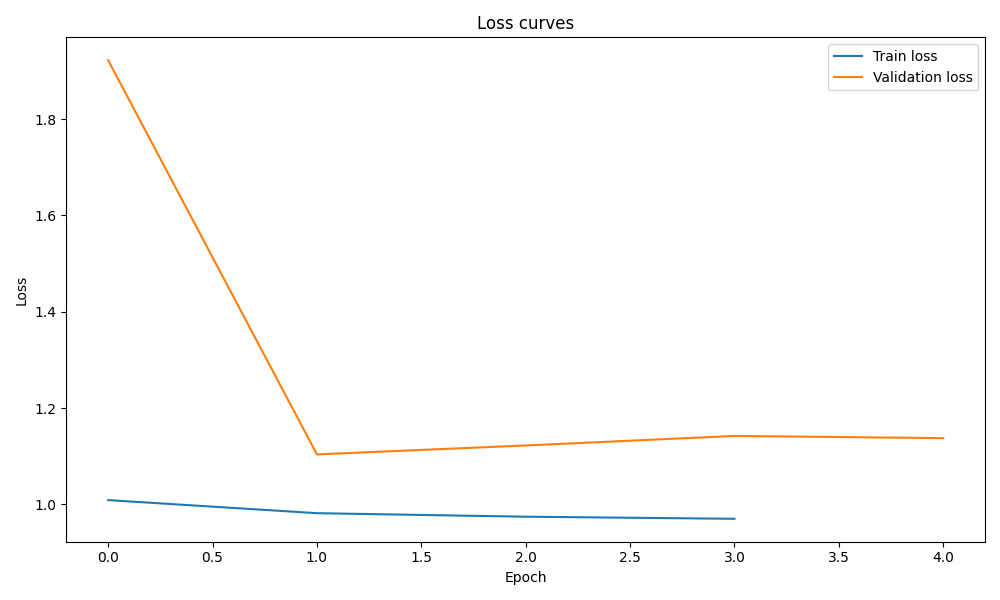
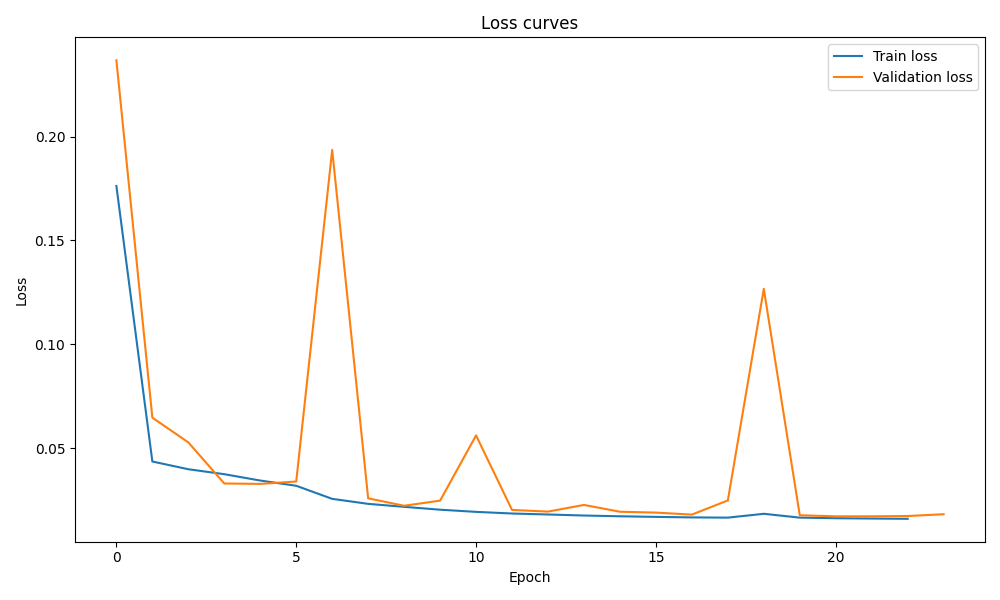
Added FineGrained

diff --git a/src/models/FineGrained/fine_grained.py b/src/models/FineGrained/fine_grained.py
@@ -1,0 +1,154 @@
+import torch
+import torch.nn as nn
+from torchvision.models import resnet50
+import lightning as L
+from torch import optim
+
+
+class ModifiedResNet50(nn.Module):
+    def __init__(self, num_classes):
+        super().__init__()
+        self.backbone = resnet50(weights="DEFAULT")
+        self.features = nn.Sequential(*list(self.backbone.children())[:-2])
+        self.conv1x1 = nn.Conv2d(2048, num_classes, kernel_size=1)
+
+    def forward(self, x):
+        x = self.features(x)
+        x = self.conv1x1(x)
+        return x
+
+
+class DiversificationBlock(nn.Module):
+    def __init__(self, p_peak=0.5, p_patch=0.5, grid_size=7, alpha=0.1):
+        super().__init__()
+        self.p_peak = p_peak
+        self.p_patch = p_patch
+        self.grid_size = grid_size
+        self.alpha = alpha
+
+    def forward(self, activation_maps):
+        batch_size, num_classes, H, W = activation_maps.shape
+        device = activation_maps.device
+
+        masks = torch.zeros_like(activation_maps).to(device)
+
+        for b in range(batch_size):
+            for c in range(num_classes):
+                map_ = activation_maps[b, c]
+
+                max_val = torch.max(map_)
+                peak_mask = (map_ == max_val).float()
+                r_peak = torch.bernoulli(torch.tensor(self.p_peak, device=device)).item()
+                B_prime = r_peak * peak_mask
+
+                patches = map_.unfold(0, self.grid_size, self.grid_size).unfold(1, self.grid_size, self.grid_size)
+                patch_mask = torch.zeros_like(map_)
+
+                for i in range(patches.shape[0]):
+                    for j in range(patches.shape[1]):
+                        r_patch = torch.bernoulli(torch.tensor(self.p_patch, device=device)).item()
+                        if r_patch:
+                            x_start = i * self.grid_size
+                            y_start = j * self.grid_size
+                            patch = map_[x_start:x_start+self.grid_size, y_start:y_start+self.grid_size]
+                            if not (patch == max_val).any():
+                                patch_mask[x_start:x_start+self.grid_size, y_start:y_start+self.grid_size] = 1
+
+                B = B_prime + patch_mask
+                masks[b, c] = B
+
+        suppressed_maps = activation_maps * (1 - masks) + activation_maps * masks * self.alpha
+        return suppressed_maps
+
+
+class GradientBoostingLoss(nn.Module):
+    def __init__(self, k=4):
+        super().__init__()
+        self.k = k
+
+    def forward(self, logits, labels):
+        batch_size, num_classes = logits.shape
+        loss = 0.0
+
+        for b in range(batch_size):
+            logit = logits[b]
+            label = labels[b]
+
+            device = logit.device
+            neg_logit = logit[torch.arange(num_classes, device=device) != label]
+            neg_labels = torch.arange(num_classes, device=device)[torch.arange(num_classes, device=device) != label]
+
+            topk_values, topk_indices = torch.topk(neg_logit, self.k)
+            J_prime = neg_labels[topk_indices]
+
+            numerator = torch.exp(logit[label])
+            denominator = numerator + torch.sum(torch.exp(logit[J_prime]))
+            loss_b = -torch.log(numerator / denominator)
+            loss += loss_b
+
+        return loss / batch_size
+
+
+class FineGrainedModel(L.LightningModule):
+    def __init__(self, num_classes, learning_rate=0.001, weight_decay=0.0, class_weights=None):
+        super().__init__()
+        self.feature_extractor = ModifiedResNet50(num_classes)
+        self.diversification = DiversificationBlock()
+        self.pool = nn.AdaptiveAvgPool2d(1)
+        self.learning_rate = learning_rate
+        self.weight_decay = weight_decay
+        
+        if class_weights is not None:
+            self.criterion = nn.CrossEntropyLoss(weight=torch.tensor(class_weights))
+        else:
+            self.criterion = GradientBoostingLoss()
+
+        self.reconstruction_error = []
+        self.targets = []
+
+    def forward(self, x):
+        activation_maps = self.feature_extractor(x)
+        if self.training:
+            activation_maps = self.diversification(activation_maps)
+        pooled = self.pool(activation_maps).squeeze()
+        return pooled
+
+    def training_step(self, batch, batch_idx):
+        x, y = batch
+        logits = self(x)
+        loss = self.criterion(logits, y)
+        self.log("train_loss", loss, on_step=True, on_epoch=True, sync_dist=True)
+        return loss
+
+    def validation_step(self, batch, batch_idx):
+        x, y = batch
+        logits = self(x)
+        loss = self.criterion(logits, y)
+        self.log("val_loss", loss, on_step=True, on_epoch=True, sync_dist=True)
+        return loss
+
+    def test_step(self, batch, batch_idx):
+        x, y = batch
+        logits = self(x)
+        loss = self.criterion(logits, y)
+        
+        # Zapisujemy błędy rekonstrukcji i etykiety dla późniejszej analizy
+        self.reconstruction_error.append(loss)
+        self.targets.append(y)
+
+    def on_test_epoch_end(self):
+        all_losses = torch.cat(self.reconstruction_error).cpu()
+        all_targets = torch.cat(self.targets).cpu()
+        
+        self.reconstruction_error = all_losses
+        self.targets = all_targets
+
+        self.log("test_loss", all_losses.mean(), on_epoch=True, sync_dist=True)
+
+    def configure_optimizers(self):
+        optimizer = optim.AdamW(
+            self.parameters(),
+            lr=self.learning_rate,
+            weight_decay=self.weight_decay
+        )
+        return {'optimizer': optimizer}

diff --git a/src/models/model_factory.py b/src/models/model_factory.py
@@ -4,16 +4,24 @@ from .ConvAE.ConvAE import ConvAE
 from .ResNet.ResNet import ResNet
 from .ResNetLSTM.ResNetLSTM import ResNetLSTM
 from .LargerConvAE.LargerConvAE import LargerConvAE
+from .FineGrained.fine_grained import FineGrainedModel
 
-def get_model(model_name: str, learning_rate: float, class_weights: list[float]) -> tuple[nn.Module, bool, bool]:
+def get_model(model_name: str, learning_rate: float, class_weights: list[float], weight_decay: float) -> tuple[nn.Module, bool, bool]:
     if model_name == 'ConvAE':
         return ConvAE(learning_rate=learning_rate), True, False
     elif model_name == 'ResNet':
-        return ResNet(learning_rate=learning_rate, class_weights=class_weights), False, False
+        return ResNet(learning_rate=learning_rate, class_weights=class_weights, weight_decay=weight_decay), False, False
     elif model_name == 'ResNetLSTM':
         return ResNetLSTM(learning_rate=learning_rate), False, True
     elif model_name == 'LargerConvAE':
         return LargerConvAE(learning_rate=learning_rate), True, False
+    elif model_name == 'FineGrained':
+        return FineGrainedModel(
+            num_classes=len(class_weights),  # Zakładam, że mamy klasy binarne (normal/anomaly)
+            learning_rate=learning_rate,
+            class_weights=class_weights,
+            weight_decay=weight_decay
+        ), False, False
     else:
         raise ValueError(f"Model {model_name} not found")
 

diff --git a/src/models/ResNet/ResNet.py b/src/models/ResNet/ResNet.py
@@ -6,7 +6,7 @@ import torchvision.models as models
 
 
 class ResNet(pl.LightningModule):
-    def __init__(self, input_shape=1, num_classes=6, learning_rate=0.0005, transform=None, freeze=True, class_weights=[1] * 6):
+    def __init__(self, input_shape=1, num_classes=6, learning_rate=0.0005, transform=None, freeze=True, class_weights=[1] * 6, weight_decay=0):
         super(ResNet, self).__init__()
         self.save_hyperparameters()
 
@@ -36,7 +36,7 @@ class ResNet(pl.LightningModule):
         )
 
         # Define a loss function and metric
-        self.criterion = nn.CrossEntropyLoss(weight=torch.tensor(class_weights))
+        self.criterion = nn.CrossEntropyLoss(weight=torch.tensor(class_weights, dtype=torch.float))
         if num_classes == 2:
             self.accuracy = Accuracy(task="binary")
         else:
@@ -109,5 +109,5 @@ class ResNet(pl.LightningModule):
         self.log("test_loss", all_losses.mean(), on_epoch=True, sync_dist=True)
 
     def configure_optimizers(self):
-        optimizer = torch.optim.Adam(self.model.fc.parameters(), lr=self.hparams.learning_rate)
+        optimizer = torch.optim.Adam(self.model.fc.parameters(), lr=self.hparams.learning_rate, weight_decay=self.hparams.weight_decay)
         return {'optimizer': optimizer}

diff --git a/src/main.py b/src/main.py
@@ -28,6 +28,7 @@ def main():
     stride = config['data']['stride']
     model_name = config['model']['name']
     class_weights = config['model']['class_weights']
+    weight_decay = config['model']['weight_decay']
     epochs = config['trainer']['epochs']
     device = config['trainer']['device']
     learning_rate = config['trainer']['learning_rate']
@@ -46,7 +47,7 @@ def main():
         resolved_device = device
 
     # Get model and related flags
-    model, is_unsupervised, is_sequence = get_model(model_name, learning_rate, class_weights)
+    model, is_unsupervised, is_sequence = get_model(model_name, learning_rate, class_weights, weight_decay)
 
     # Setup Callbacks
     callbacks = [
